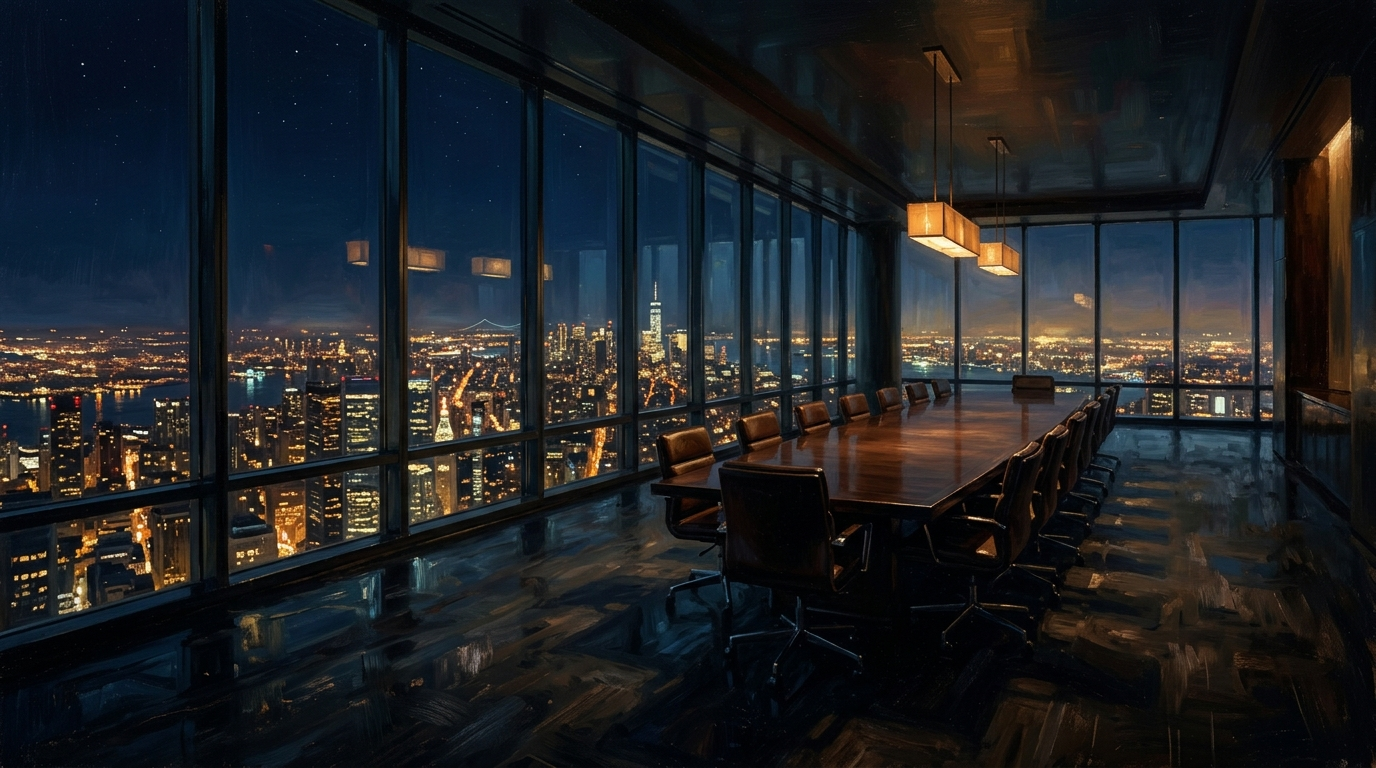
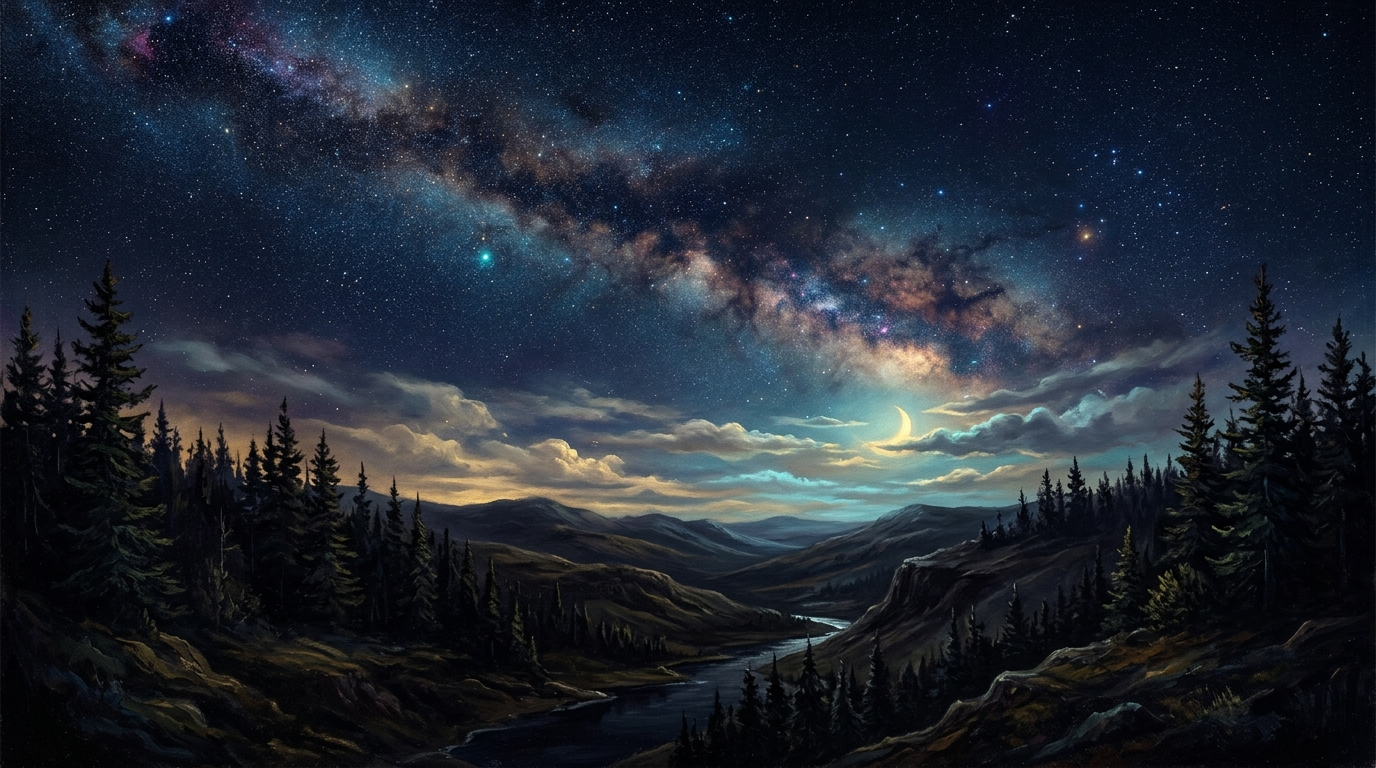
Align landing page hero layout and starry artwork 1:1 with Saasternity and Clonely reference designs

diff --git a/src/components/landing/HeroSection.tsx b/src/components/landing/HeroSection.tsx
@@ -4,85 +4,78 @@ import HeroWorkspace from "./HeroWorkspace";
 
 export default function HeroSection() {
   return (
-    <section
-      id="home"
-      className="landing-hero relative flex min-w-0 flex-col overflow-x-clip"
-      style={{ minHeight: "100svh" }}
-    >
-      {/* ── Full-bleed illustrated background ── */}
+    <section id="home" className="relative flex min-h-[90vh] flex-col overflow-x-clip bg-[#090A0F]">
+      {/* ── Full-Bleed Illustrated Background Image ── */}
       <div className="absolute inset-0 z-0">
         <Image
           src="/hero-bg.jpg"
-          alt=""
+          alt="Atmospheric starry night landscape"
           fill
           priority
-          quality={90}
+          quality={95}
           className="object-cover object-center"
           aria-hidden="true"
         />
 
-        {/* Layered overlays — darken image so text stays crisp */}
-        {/* Base darkening */}
-        <div className="absolute inset-0 bg-[#020B21]/40" />
-        {/* Bottom-up gradient: text reading zone */}
-        <div className="absolute inset-0 bg-gradient-to-t from-[#020B21] via-[#020B21]/70 to-transparent" style={{ background: "linear-gradient(to top, #020B21 0%, rgba(2,11,33,0.82) 28%, rgba(2,11,33,0.45) 55%, transparent 80%)" }} />
-        {/* Left-side vignette so left-aligned text always readable */}
-        <div className="absolute inset-0" style={{ background: "linear-gradient(to right, rgba(2,11,33,0.65) 0%, rgba(2,11,33,0.20) 40%, transparent 70%)" }} />
-        {/* Smooth page-bg continuation at very bottom */}
-        <div className="absolute bottom-0 inset-x-0 h-24 bg-[#020B21]" />
+        {/* Top gradient overlay for navbar contrast */}
+        <div className="absolute inset-x-0 top-0 h-36 bg-gradient-to-b from-[#090A0F]/80 via-[#090A0F]/40 to-transparent pointer-events-none" />
+
+        {/* Left vignette overlay for text legibility */}
+        <div
+          className="absolute inset-0 pointer-events-none"
+          style={{
+            background:
+              "linear-gradient(to right, rgba(9,10,15,0.85) 0%, rgba(9,10,15,0.5) 40%, transparent 75%)",
+          }}
+        />
+
+        {/* Bottom gradient fade into page background */}
+        <div
+          className="absolute inset-x-0 bottom-0 h-72 pointer-events-none"
+          style={{
+            background:
+              "linear-gradient(to top, #090A0F 0%, rgba(9,10,15,0.95) 30%, rgba(9,10,15,0.6) 65%, transparent 100%)",
+          }}
+        />
       </div>
 
-      {/* ── Hero copy — bottom-left anchored ── */}
-      <div
-        className="relative z-10 flex flex-1 flex-col justify-end landing-container"
-        style={{ paddingBottom: "clamp(2.5rem, 5vw, 4rem)" }}
-      >
-        <div className="max-w-[44rem]">
-          {/* Headline */}
-          <h1
-            className="landing-hero-copy break-words font-bold leading-[1.0] tracking-[-0.04em] text-white"
-            style={{ fontSize: "clamp(2.6rem, 6vw, 5.2rem)" }}
-          >
-            The interview
+      {/* ── Bottom-Left Anchored Hero Content (Saasternity / Clonely Style) ── */}
+      <div className="relative z-10 flex min-h-[85vh] flex-col justify-end pb-16 pt-32 landing-container">
+        <div className="max-w-3xl">
+          {/* Main Headline — Pure, crisp white, bold, 2-line layout */}
+          <h1 className="text-[clamp(2.75rem,5.8vw,5rem)] font-bold leading-[1.06] tracking-[-0.035em] text-white">
+            Practice real interviews
             <br />
-            you{" "}
-            <span className="landing-hero-accent">never had</span>
-            <span className="block mt-2 font-normal tracking-[-0.02em] text-white/30" style={{ fontSize: "clamp(1.3rem, 2.5vw, 2.2rem)" }}>
-              — until now.
-            </span>
+            with AI that talks back.
           </h1>
 
-          {/* Subtext */}
-          <p
-            className="mt-5 max-w-[34rem] leading-[1.75] text-white/55"
-            style={{ fontSize: "clamp(0.95rem, 1.3vw, 1.05rem)" }}
-          >
-            A mock interview that actually pushes back. Speak your answer out
-            loud, get real follow-ups, then replay the whole thing with a
-            transcript and score before you walk into the real room.
+          {/* Muted Subheadline */}
+          <p className="mt-5 max-w-xl text-[clamp(1.05rem,1.35vw,1.2rem)] leading-relaxed text-[#94A3B8]">
+            Customize a mock interview for your role, explain your thinking out loud,
+            and review your video recording, transcript, and automated score before the real thing.
           </p>
 
-          {/* CTAs */}
-          <div className="mt-7 flex flex-wrap items-center gap-3">
-            <Link href="/signup" className="landing-hero-cta-primary">
-              <span className="landing-hero-cta-meters" aria-hidden="true">
-                <span />
-                <span />
-                <span />
-              </span>
-              Start practicing free
-              <span className="landing-hero-cta-arrow" aria-hidden="true">→</span>
+          {/* Action Buttons */}
+          <div className="mt-8 flex flex-wrap items-center gap-4">
+            <Link
+              href="/signup"
+              className="inline-flex h-12 items-center justify-center rounded-xl bg-[#2563EB] px-6 text-base font-semibold text-white shadow-lg shadow-blue-600/30 transition-all duration-200 hover:bg-[#1D4ED8] hover:shadow-blue-600/40 hover:scale-[1.02] focus-visible:outline-none focus-visible:ring-2 focus-visible:ring-blue-400"
+            >
+              Try for free today
             </Link>
-            <a href="#how-it-works" className="landing-hero-cta-secondary">
-              See how it works
-              <span className="landing-hero-cta-secondary-mark" aria-hidden="true">↳</span>
+
+            <a
+              href="#how-it-works"
+              className="inline-flex h-12 items-center justify-center px-4 text-sm font-medium text-[#CBD5E1] transition-colors duration-200 hover:text-white"
+            >
+              See how it works <span className="ml-1.5 text-xs text-[#60A5FA]">→</span>
             </a>
           </div>
         </div>
       </div>
 
-      {/* ── HeroWorkspace below the illustrated zone ── */}
-      <div className="relative z-10 w-full bg-[#020B21]">
+      {/* ── Interactive Workspace Section (Below Hero Fade) ── */}
+      <div className="relative z-10 w-full bg-[#090A0F] pb-12 pt-4">
         <HeroWorkspace />
       </div>
     </section>

diff --git a/src/components/landing/ScrollMorphingNavbar.tsx b/src/components/landing/ScrollMorphingNavbar.tsx
@@ -107,8 +107,8 @@ export const NavBody = ({ children, className, visible }: NavBodyProps) => {
         damping: 28,
       }}
       className={cn(
-        "relative z-[60] mx-auto hidden h-[var(--landing-nav-height)] w-full max-w-[80rem] flex-row items-center justify-between border border-white/10 bg-[#020B21]/78 px-[clamp(1rem,2vw,1.25rem)] lg:flex",
-        visible && "border-white/15 bg-[#071329]/90",
+        "relative z-[60] mx-auto hidden h-[var(--landing-nav-height)] w-full max-w-[80rem] flex-row items-center justify-between border border-white/10 bg-[#090A0F]/60 px-[clamp(1rem,2vw,1.25rem)] lg:flex",
+        visible && "border-white/15 bg-[#090A0F]/90",
         className,
       )}
     >
@@ -171,8 +171,8 @@ export const MobileNav = ({ children, className, visible }: MobileNavProps) => {
         damping: 28,
       }}
       className={cn(
-        "relative z-50 mx-auto flex h-[var(--landing-nav-height)] w-full max-w-[80rem] flex-col items-center justify-between border border-white/10 bg-[#020B21]/78 px-4 lg:hidden",
-        visible && "border-white/15 bg-[#071329]/90",
+        "relative z-50 mx-auto flex h-[var(--landing-nav-height)] w-full max-w-[80rem] flex-col items-center justify-between border border-white/10 bg-[#090A0F]/60 px-4 lg:hidden",
+        visible && "border-white/15 bg-[#090A0F]/90",
         className,
       )}
     >

diff --git a/src/components/landing/LandingFooter.tsx b/src/components/landing/LandingFooter.tsx
@@ -6,7 +6,7 @@ export default function LandingFooter() {
     <footer className="landing-footer-shell text-[#657086]">
       <div className="landing-container flex flex-col items-center justify-between gap-3 sm:flex-row">
         <Link href="/" className="flex items-center gap-2 transition-opacity hover:opacity-90">
-          <AppLogo size={24} className="rounded-md" />
+          <AppLogo size={28} className="rounded-md" />
           <span className="text-sm font-semibold text-[#F5F7FF]">
             Snap<span className="text-[#A5B4FC]">Interview</span>
           </span>

diff --git a/src/components/landing/HowItWorksSection.tsx b/src/components/landing/HowItWorksSection.tsx
@@ -66,7 +66,7 @@ export default function SocialProofSection() {
             ["Score", "3-axis automated rubric"],
             ["Next steps", "Coaching notes on what to fix"],
           ].map(([label, detail]) => (
-            <div key={label} className="flex flex-col gap-1 bg-[#020B21] px-5 py-4">
+            <div key={label} className="flex flex-col gap-1 bg-[#090A0F] px-5 py-4">
               <span className="text-[0.65rem] font-semibold uppercase tracking-wider text-[#3D4F73]">
                 {label}
               </span>

diff --git a/src/app/page.tsx b/src/app/page.tsx
@@ -31,7 +31,7 @@ export default async function LandingPage() {
   };
 
   return (
-    <div className="landing-page relative min-h-screen overflow-x-hidden bg-[#020B21] font-sans text-[#F5F7FF] selection:bg-indigo-500 selection:text-white">
+    <div className="landing-page relative min-h-screen overflow-x-hidden bg-[#090A0F] font-sans text-[#F5F7FF] selection:bg-blue-600 selection:text-white">
       <LandingAtmosphere />
 
       <script
